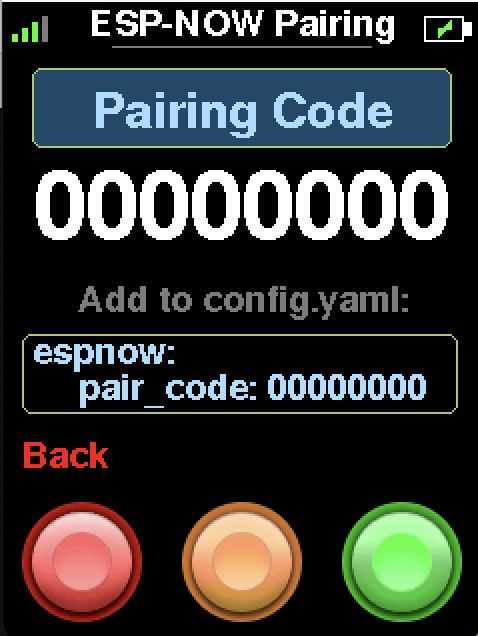
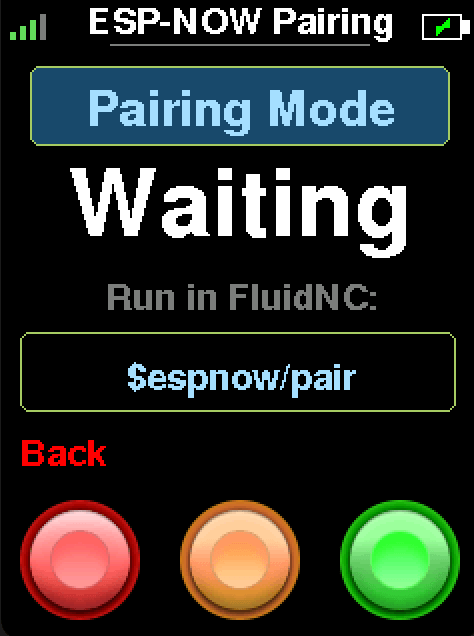
Update ESP-NOW Readme

diff --git a/docs/ESP-NOW.md b/docs/ESP-NOW.md
@@ -1,8 +1,20 @@
 # FluidDial ESP-NOW *(experimental)*
 
-This is my implementation of ESP-NOW for the FluidDial. ESP-NOW is a new, optional connection mode for FluidDial that lets the pendant communicate directly with your FluidNC controller over a peer-to-peer encrypted radio link - no router, no WiFi network, no IP address required.
+ESP-NOW is a new, optional connection mode for FluidDial that lets the pendant communicate directly with your FluidNC controller over a peer-to-peer encrypted radio link.
+
+Pairing uses P-256 elliptic-curve key exchange and authenticated messages to establish a unique encrypted ESP-NOW key for each pendant and controller.
 
 > **Flash the firmware:** Use the **[ESP-NOW Preview Installer](https://figamore.github.io/FluidDial)** to flash this experimental build onto your M5Dial or CYD pendant, as well as your FluidNC ESP32.
+
+## Contents
+
+- [Why ESP-NOW?](#why-esp-now)
+- [Requirements](#requirements)
+- [Pairing steps](#pairing-steps)
+- [Pairing multiple machines](#pairing-multiple-machines)
+- [Encryption and security](#encryption-and-security-overview)
+- [Note on Pairing and WiFi mode](#esp-now-pairing-and-wifi-mode)
+- [WiFi vs ESP-NOW](#wifi-vs-esp-now---which-should-i-choose)
 
 ---
 
@@ -10,19 +22,9 @@ This is my implementation of ESP-NOW for the FluidDial. ESP-NOW is a new, option
 
 This feature was added in response to user interest in a simpler, potentially more power-efficient wireless option:
 
+- **Flexible pairing** - FluidNC can remember multiple pendants, and a pendant can save multiple machine profiles for quick switching.
 - **User demand** - some users want wireless control without setting up a WiFi network or dealing with router configuration.
-- **Potentially lower power consumption** - ESP-NOW is a lightweight MAC-layer protocol that may reduce radio-on time compared to a full WiFi/WebSocket stack, which could benefit battery-powered pendant builds.
 - **No router required** - the pendant talks directly to the FluidNC controller over a point-to-point encrypted radio link, so it works in any shop environment regardless of network availability.
-
----
-
-## How it works
-
-ESP-NOW uses the ESP32's built-in peer-to-peer radio protocol. After a one-time pairing step, the pendant and the FluidNC controller communicate directly by MAC address using hardware AES-128 encryption - no IP address, no router, no WebSocket.
-
-Pairing uses a **8-digit numeric code**: FluidNC matches the code, derives the encryption key, and completes the handshake. Once paired, the credentials are stored in NVS on both sides and pairing does not need to be repeated.
-
-<img src="images/espNowPairingScene.png" width="240" alt="ESP-NOW pairing screen showing 8-digit code">
 
 ---
 
@@ -42,14 +44,51 @@ Pairing uses a **8-digit numeric code**: FluidNC matches the code, derives the e
 
 1. Flash the [ESP-NOW preview firmware](https://figamore.github.io/FluidDial) onto your pendant.
 1. On first boot (or from Connection Settings), select **ESP-NOW** as the connection mode.
-1. The pendant displays a 8-digit code. Add an entry at the bottom of your config.yaml file in the following format:
-```yaml
-espnow:
-    pairing_code: XXXXXXXX
-```
+1. Leave FluidDial on the **ESP-NOW Pairing** screen.
 
-4. The controller matches the code, completes the handshake, and both sides store the credentials.
-5. From this point on the pendant connects automatically on boot - no re-pairing needed.
+<img src="images/espNowPairingScene.png" width="240" alt="FluidDial waiting for the FluidNC ESP-NOW pairing command">
+
+4. Open a pairing window on FluidNC using one of these methods:
+   - In a FluidNC terminal, run `$espnow/pair`.
+   - In [FigUI](https://github.com/figamore/gifui), open **Settings > ESP-NOW** and select **Pair Pendant**.
+   <img src="images/webUIPairingScene.png" width="720" alt="FigUI ESP-NOW settings showing Pair Pendant and paired pendant controls">
+1. Wait for FluidDial to connect. Both devices save the pairing automatically.
+
+---
+
+## Pairing multiple machines
+
+FluidDial can save profiles for multiple FluidNC machines. Open **Connection Settings > Machines** to select an existing machine, choose **Pair New** to add another one, or use **Forget** to delete the selected profile from the pendant.
+
+<img src="images/espNowMachineScene.png" width="480" alt="FluidDial ESP-NOW machine list with Use and Forget controls">
+
+FluidNC also stores its own list of paired pendants. FigUI can list and remove individual pendants or **Unpair All** from **Settings > ESP-NOW**. The equivalent FluidNC terminal commands are:
+
+- `$espnow/list` - list paired pendants and their numeric indexes.
+- `$espnow/unpair=<index>` - remove one pendant using the index shown by `$espnow/list`.
+- `$espnow/unpair=0` - remove all paired pendants.
+
+Unpairing should be done on **both FluidDial and FluidNC**. Forget the machine on the pendant, then remove that pendant from FluidNC using FigUI or the ESP-NOW terminal commands. Removing only one side leaves a stale saved profile on the other device.
+
+---
+
+## Encryption and security overview
+
+ESP-NOW traffic is not just accepted from any nearby device. FluidNC keeps a saved list of paired pendant MAC addresses, and FluidDial keeps saved machine profiles. A pendant must complete pairing before FluidNC will accept it as a trusted peer.
+
+Pairing is opened only temporarily, either from the FluidNC terminal or from FigUI. During pairing, FluidDial and FluidNC exchange fresh public keys and derive a shared per-pair key. Pairing confirmation packets include HMAC-SHA256 authentication tags, so a random device cannot complete pairing just by copying the packet format.
+
+After pairing, the devices register each other as encrypted ESP-NOW peers using an LMK. ESP-NOW's encrypted peer mode uses the ESP32 WiFi/ESP-NOW security layer for over-the-air encryption.
+
+FluidDial and FluidNC also add a small anti-replay layer above ESP-NOW. Keepalive, realtime, and data packets carry nonce/counter values so stale packets cannot simply be replayed later as valid control traffic.
+
+This protects against casual or accidental cross-connection, packet sniffing, and simple replay attempts.
+
+---
+
+### Note on ESP-NOW Pairing and WiFi Mode
+
+ESP-NOW pairings are tied to the WiFi mode used during pairing because AP and STA modes use different MAC addresses. A pendant paired while FluidNC is in AP mode must be re-paired after switching to STA mode, and vice versa.
 
 ---
 
@@ -59,9 +98,9 @@ espnow:
 |---|---|---|
 | **Router required** | Yes | No |
 | **Range** | Limited by your network | ~100 m line-of-sight (ESP32 radio) |
-| **Setup complexity** | Moderate (captive portal) | Low (one-time 8-digit pairing) |
+| **Setup complexity** | Moderate (captive portal) | Low (one-command or FigUI pairing) |
 | **Network interference** | Shares band with other devices | Dedicated peer channel |
-| **Power consumption** | Higher (full WiFi stack) | Potentially lower |
+| **Power consumption** | Higher (full WiFi stack) | Potentially lower, but not by much |
 
 **Choose WiFi if:**
 - You already have a reliable network in your shop and want the pendant on it alongside other devices.
@@ -71,3 +110,4 @@ espnow:
 - You have no router near your machine, or want to avoid network setup entirely.
 - You are running the pendant on battery and want to explore lower power consumption.
 - You want the simplest possible wireless setup with minimal configuration.
+- You want to control multiple machines with a single pendant.